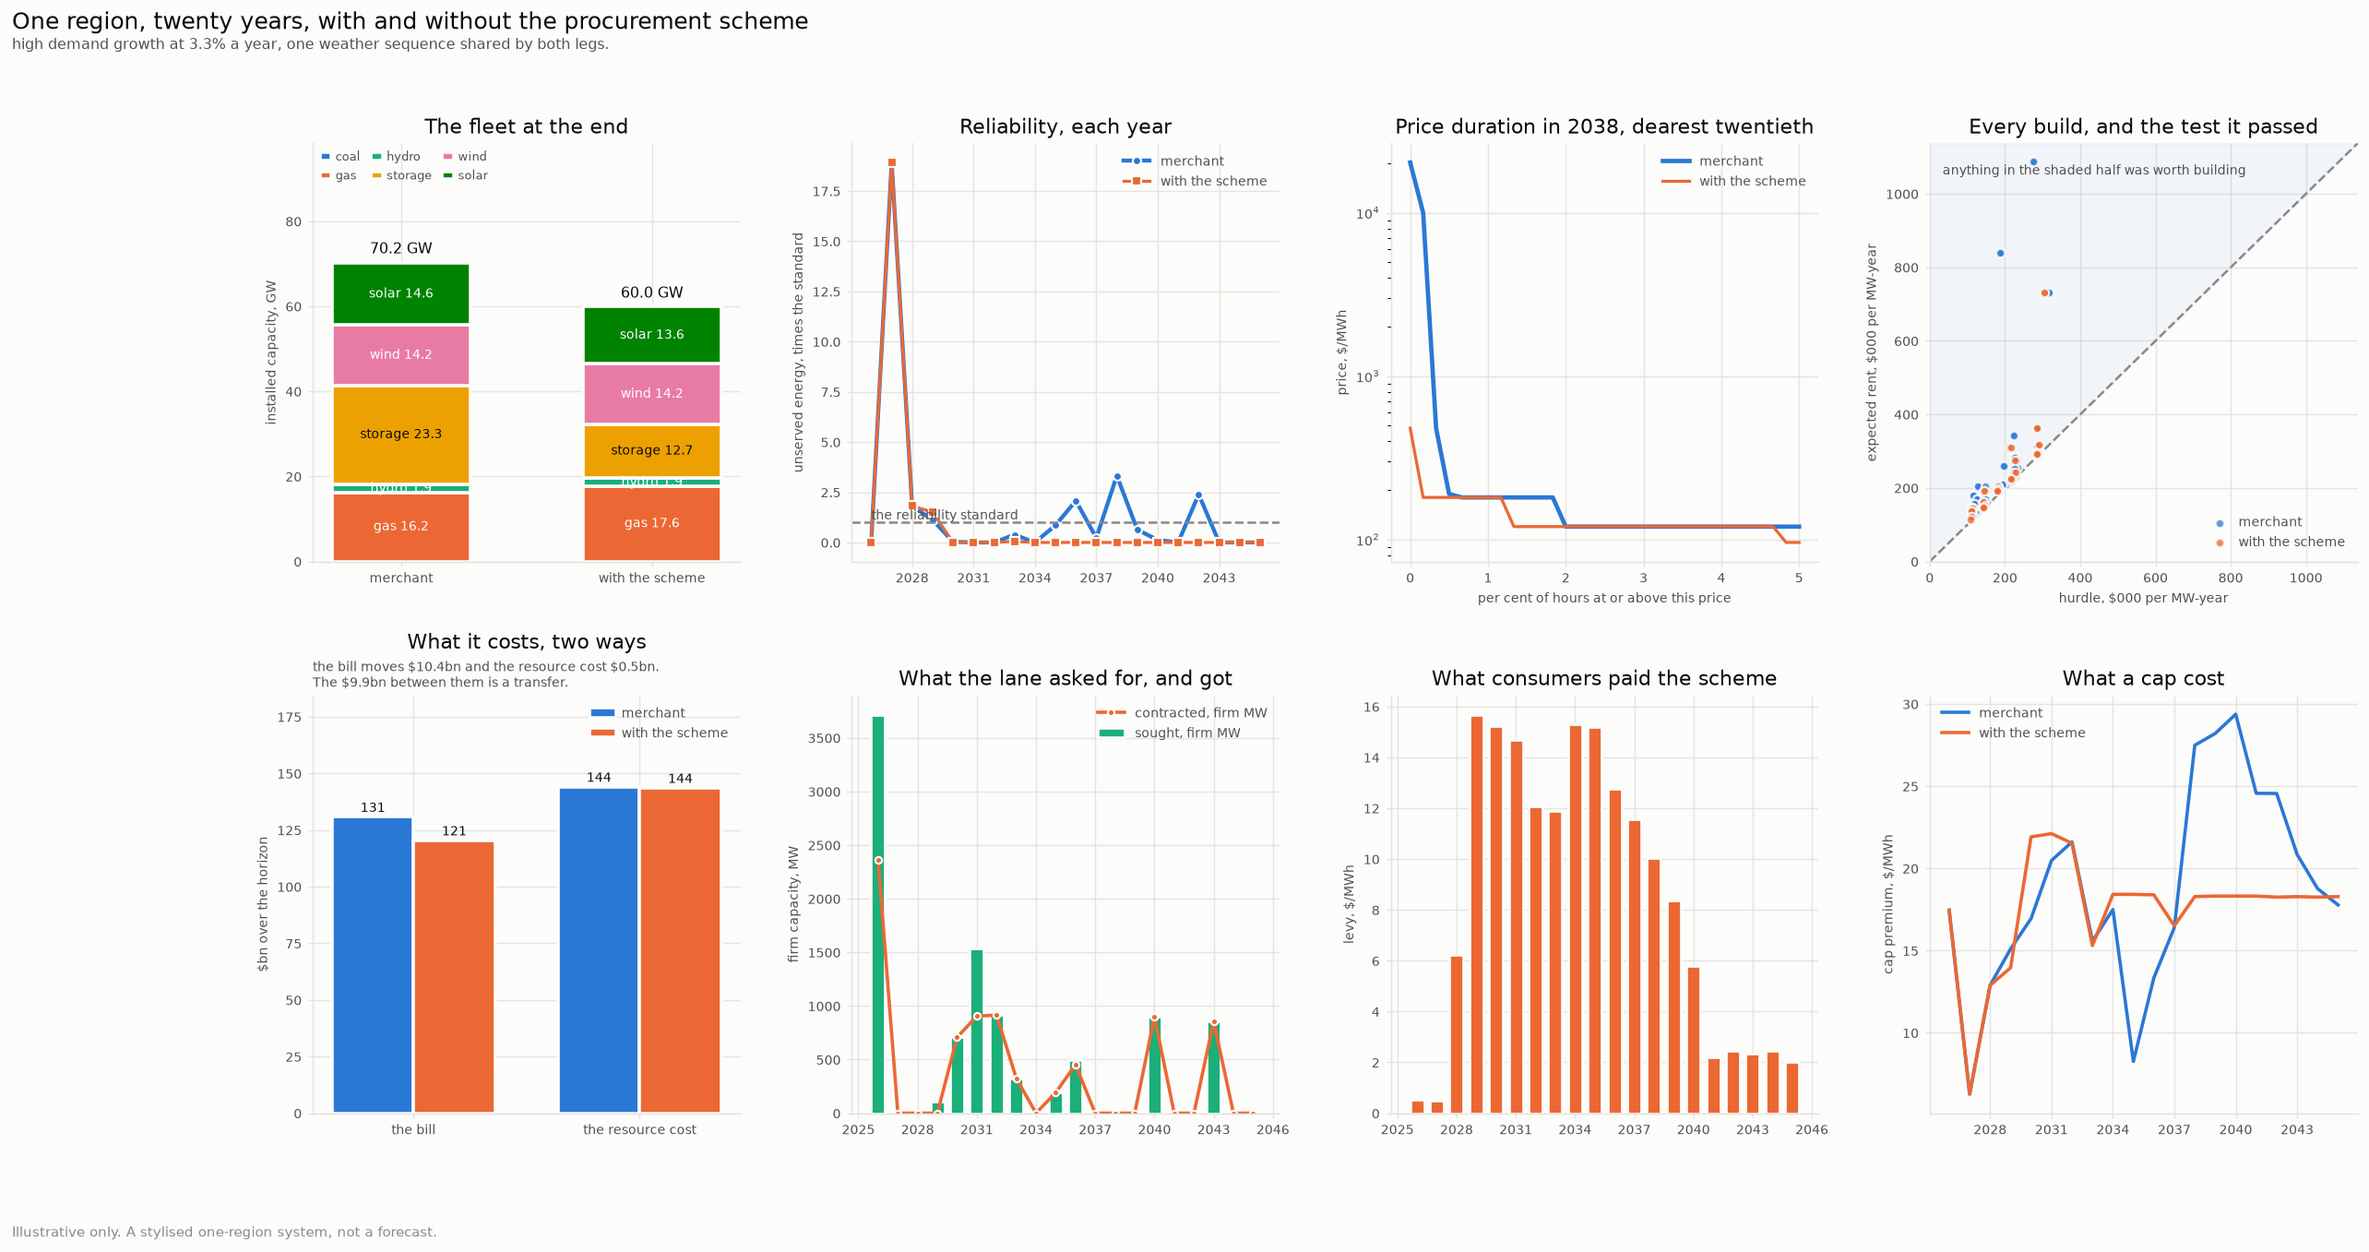
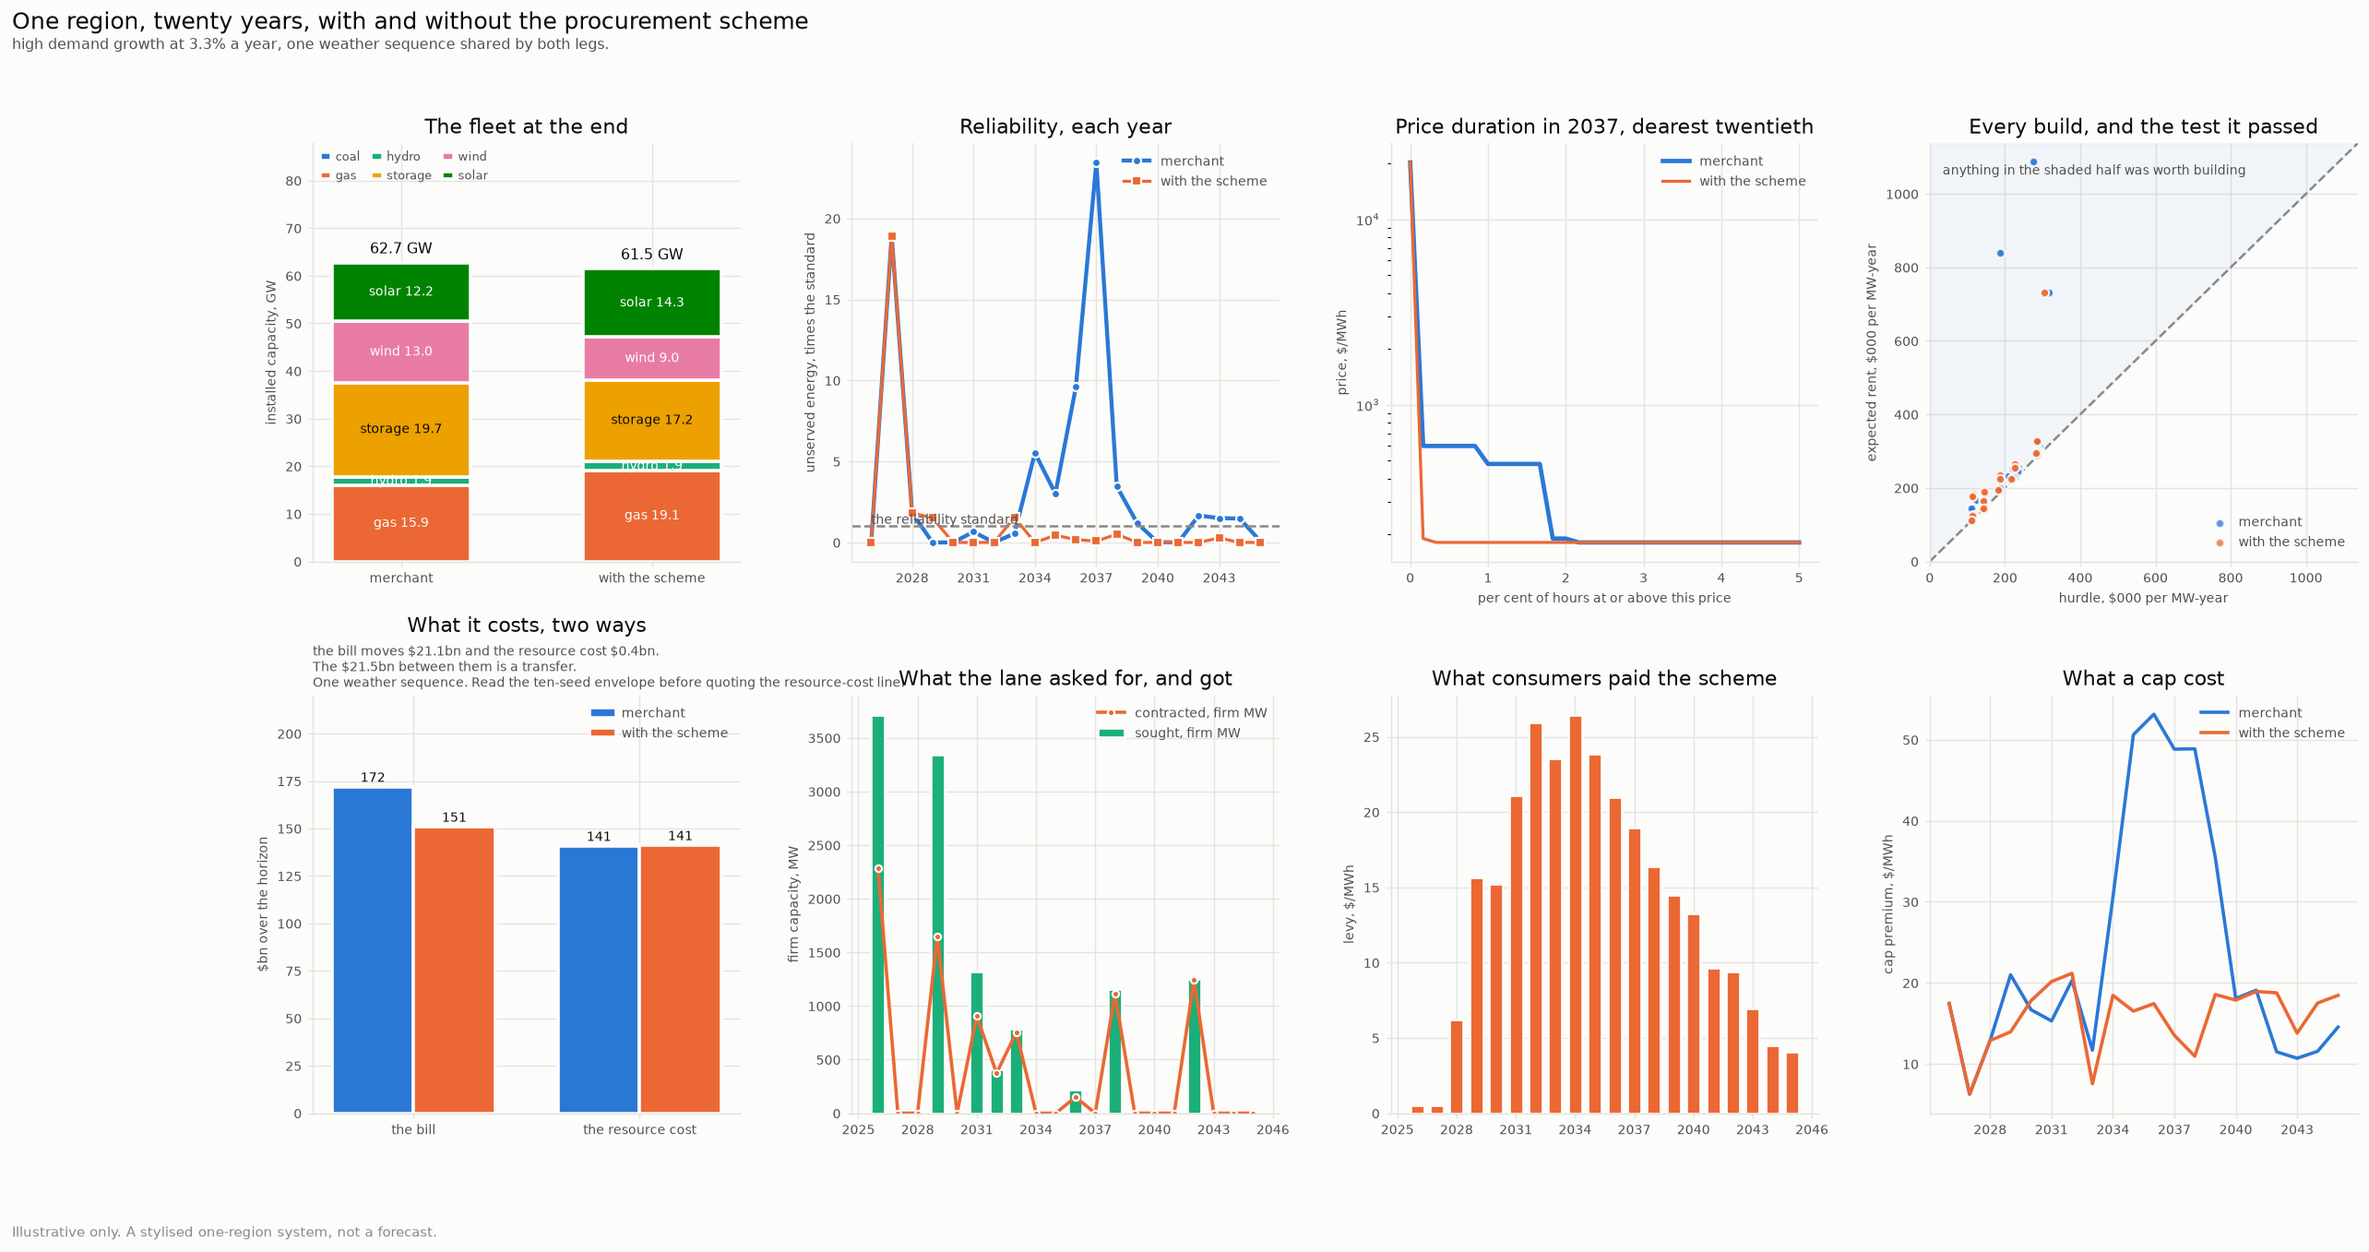
Regenerate the canonical outputs, and retire the claims they no longer support
Technology-open entry moved the results further than it moved the code, so every
published number was re-measured rather than re-stated.

The canonical seed, before and after: merchant unserved energy 55.4 -> 141.6 GWh,
the scheme leg 33.6 -> 39.5, the bill -$10.37bn -> -$21.06bn, and the resource cost
a $0.51bn SAVING -> a $0.40bn COST. The sign flipped. The merchant leg is much
worse off, and that reads as the mechanism working rather than breaking: the
projection now assumes cheap energy technologies enter, which flattens projected
scarcity rents, so merchant investors build less firm plant. That is the missing
money, and it is the thing the scheme is an answer to.

The ten-seed envelope moved with it, and it is less flattering:

  reliability improves in 6 of 10 and gets WORSE in 4  (was 8 of 10)
  outage avoided -$0.15bn to +$2.07bn, positive in 6   (was small and always positive)
  fuel, fixed and capital -$6.19bn to +$0.92bn
  total resource cost lower in 4 of 10                 (unchanged)

So "the outage line is small, positive and steady" is now false, and it was the
sentence the CLI, KNOWN_LIMITATIONS and the canonical README all leaned on. All
three now say that both lines change sign, and that the sort by growth path is the
part that travels: the three low-growth draws avoid no outage, cost $1.2bn to
$5.7bn more, and end slightly LESS reliable, while the two high-growth draws take
the largest outage savings in the set.
[…]

diff --git a/src/esem_sandbox/cli.py b/src/esem_sandbox/cli.py
@@ -312,12 +312,14 @@ def compare(args: argparse.Namespace) -> int:
     print(f"unserved energy is valued at the market price cap of ${voll:,.0f}/MWh. "
           "That is\na regulatory figure standing in for what an outage costs, not a "
           "measurement of one.")
-    print("\nONE SEED, AND ONLY HALF OF IT TRAVELS. Across ten weather sequences the "
-          "outage line\nis small, positive and steady; the fuel, fixed and capital "
-          "line swings by billions\neither way and decides the sign of the total. "
-          "Quote the outage avoided. Do not quote\nthe total. tools/ten_seeds.py "
-          "writes and decomposes the envelope, and a copy sits\nunder "
-          "outputs/canonical/.")
+    print("\nONE SEED, AND NOT MUCH OF IT TRAVELS. Across ten weather sequences the "
+          "scheme\nimproves reliability in six and worsens it in four, and lowers "
+          "the total resource\ncost in four. Both lines change sign across the "
+          "seeds, so neither this run's outage\nnor its total is a property of the "
+          "scheme. What does travel is the sort: the outage\navoided is largest on "
+          "the fast-growing draws and nil on the slow ones, where the\nscheme buys "
+          "capacity that has nothing to do. tools/ten_seeds.py writes and\n"
+          "decomposes the envelope, and a copy sits under outputs/canonical/.")
     print("\nA stylised fleet. Illustrative, and not a forecast of anything.")
     picture = plots.dashboard(legs, settings,
                               os.path.join(args.out, "dashboard.png"))

diff --git a/KNOWN_LIMITATIONS.md b/KNOWN_LIMITATIONS.md
@@ -176,15 +176,26 @@ capacity the scheme delivered.
 The auction runs before the investment step, which is the design's own tick order and
 matters physically: one supply chain builds both. So an award consumes annual build
 room that the merchant rule would otherwise have used, and the scheme leg builds
-noticeably less unsubsidised plant than the merchant leg does. Over twenty years on
-the packaged fleet the scheme leg awarded 11,100 MW and built 55,900 MW where the
-merchant leg built 77,900 MW.
+noticeably less unsubsidised plant than the merchant leg does. Counted off the
+fleet at the end of twenty years on the canonical seed, rather than inferred:
 
-The mix moves toward firm capacity, which is what the lane is buying, and the
-reliability outcome improves. But the size of the improvement is partly a
-reallocation of a fixed annual build rate rather than an increase in it, and the
-annual build rate is a pacing choice rather than an economic force. That makes the
-DIRECTION of the comparison meaningful and its MAGNITUDE softer than it looks.
+| | merchant | with the scheme |
+|---|---|---|
+| merchant build | 65,000 MW | 47,550 MW |
+| awarded | nil | 13,300 MW |
+| **new capacity in total** | **65,000 MW** | **60,850 MW** |
+| unserved energy | 141.6 GWh | 39.5 GWh |
+
+So 17,450 MW of merchant build made way for 13,300 MW of awards, and the scheme leg
+finishes with 4,150 MW LESS new plant than the merchant leg while shedding a quarter
+as much energy. The whole of the improvement on this seed is the MIX, not the amount:
+the lane buys firm capacity and the ceiling it consumes would have gone to something
+else.
+
+Read as a limitation, that means the annual build rate is a pacing choice rather than
+an economic force, and it is doing real work in the comparison. Read as a result, it
+is the more interesting half: on this seed a smaller fleet of the right shape beat a
+larger one of the wrong shape, and that is a statement about what capacity is FOR.
 
 ## A scheme cannot fix a year that arrives before its plant does
 
@@ -254,8 +265,8 @@ procured.
 ## The scheme's worth depends on which future the market turned out to be in
 
 Ten seeds, twenty years each, both legs on each seed's own shared weather. The
-scheme improves reliability in eight of the ten and lowers the total resource cost
-in four.
+scheme improves reliability in six of the ten and makes it worse in four, and it
+lowers the total resource cost in four.
 
 Splitting each seed's resource-cost difference into the outage the scheme avoided
 and everything else - unserved energy priced at the value of lost load is one of the
@@ -263,54 +274,69 @@ four terms, so subtracting it leaves fuel, fixed costs and capital together:
 
 | | across ten seeds |
 |---|---|
-| outage avoided | -$0.02bn to +$0.73bn, positive in eight |
-| fuel, fixed and capital | -$4.35bn to +$2.19bn, positive in three |
+| outage avoided | -$0.15bn to +$2.07bn, positive in six |
+| fuel, fixed and capital | -$6.19bn to +$0.92bn, positive in three |
 
-The outage line is small, positive and steady. The other line is four times larger,
-swings both ways, and decides the sign of the total. **Quote the outage avoided. Do
-not quote the total.**
+Both lines change sign across the seeds, so **neither figure from a single run is a
+property of the scheme**, and the total least of all: the second line is the larger
+of the two on eight of the ten seeds and it decides the sign.
 
-**And the swing is not random.** Sorted by the demand growth path each run drew:
+**But the swing is not random, and the sort is the finding.** Taken by the demand
+growth path each run drew:
 
-- **low growth** (three seeds): resource cost worse by $2.0bn to $4.4bn every time,
-  and the outage avoided is nil, between minus $0.02bn and plus $0.01bn;
-- **high growth** (two seeds): resource cost better both times, and the two largest
-  outage savings in the set;
-- **central growth** (five seeds): two better, three worse.
+| path | seeds | outage avoided | resource cost | reliability |
+|---|---|---|---|---|
+| low | 3 | -$0.07bn to -$0.02bn | worse every time, by $1.2bn to $5.7bn | worse in all three |
+| central | 5 | -$0.15bn to +$0.79bn | three worse, two better | three better, two worse |
+| high | 2 | +$1.64bn and +$2.07bn | one worse by $0.40bn, one better by $0.48bn | far better both times |
 
-So on a slow-growing system the scheme procures capacity that has nothing to do, and
-on a fast-growing one it earns its keep. That is a result about the instrument rather
-than about the weather, and it is the one worth taking away.
+On a slow-growing system the scheme procures capacity that has nothing to do, pays
+for it, and does not improve reliability - on these three draws it slightly worsens
+it. On a fast-growing one it avoids the largest outages in the set. Sorted this way
+the scheme awards 13,000 to 13,550 MW on the high draws and 7,700 to 8,100 MW on the
+low ones, so it is responding to the future it is in; it is just responding to a
+future it only half knows.
 
-**The obvious mechanism was tested and is wrong.** The tempting explanation is that
-the lane is sized from a forward view that keeps its growth priors whatever the
-realised path has been doing, so a scheme that cannot learn which future it is in
-keeps buying for the average of them. That can be tested without a design change:
-collapse the priors onto the path each run actually drew and see what happens. On a
+**The reliability going backwards on the slow draws is measured, and its cause is
+not.** The candidate is the shared annual build ceiling, which the state scheme
+lane is already known to bind against - awards displacing merchant plant rather
+than adding to it, which the next section is about. That has NOT been tested here,
+and it should not be repeated as though it had been.
+
+**The obvious mechanism has been tested twice and has never held up.** The tempting
+explanation is that the lane is sized from a forward view that keeps its growth
+priors whatever the realised path has been doing, so a scheme that cannot learn which
+future it is in keeps buying for the average of them. That can be tested without a
+design change: collapse the priors onto the path each run actually drew, which forces
+the same realised weather and the same realised path, and see what happens. On a
 reduced lattice, so these figures are not comparable with the ten-seed table above:
 
 | seed | path | | awarded | resource cost | outage avoided |
 |---|---|---|---|---|---|
-| 20260101 | low | priors as they are | 4,950 MW | -$2.83bn | -$0.02bn |
-| | | knowing the path | 4,400 MW | -$0.08bn | +$0.00bn |
-| 111 | low | priors as they are | 5,950 MW | -$2.64bn | +$0.01bn |
-| | | knowing the path | 3,250 MW | +$0.47bn | +$0.09bn |
-| 20260904 | high | priors as they are | 9,350 MW | -$3.26bn | +$0.67bn |
-| | | knowing the path | 11,200 MW | -$7.50bn | +$0.14bn |
+| 20260101 | low | priors as they are | 9,050 MW | +$0.50bn | -$0.02bn |
+| | | knowing the path | 6,300 MW | -$2.86bn | +$1.28bn |
+| 111 | low | priors as they are | 6,700 MW | -$5.19bn | +$0.21bn |
+| | | knowing the path | 5,000 MW | -$1.50bn | -$0.16bn |
+| 20260904 | high | priors as they are | 14,950 MW | -$2.15bn | +$4.09bn |
+| | | knowing the path | 15,600 MW | -$2.78bn | +$0.90bn |
+| 31415926 | high | priors as they are | 10,150 MW | +$0.98bn | +$0.86bn |
+| | | knowing the path | 9,000 MW | -$0.11bn | +$0.50bn |
 
-On the low path the explanation holds: knowing where demand is going nearly halves
-what the scheme buys and turns a two-and-a-half billion dollar penalty into a gain.
+**What survives is the negative result.** Perfect foresight about the growth path
+does not rescue the scheme on any of these four draws. It cuts what the scheme buys
+on three of the four, and still leaves the resource cost worse on three and the
+outage avoided smaller on three - and never both better at once. Whatever makes the
+scheme expensive on a slow path, not knowing which path it is on is not it.
 
-**On the high path it reverses.** Knowing the path makes the scheme procure MORE,
-cost MORE, and avoid LESS outage, because the market is better informed too and
-builds more of the answer itself, leaving the scheme less to fix.
-
-So the mechanism is not that the scheme cannot learn. It is that the scheme's penalty
-tracks how much it procures that the market would have covered anyway, and better
-information does not fix that: on a fast path it sharpens the market's own response
-and makes the redundancy worse. A procurement scheme is expensive exactly where it is
-least needed, and knowing more about the future moves where that is rather than
-removing it.
+**What does NOT survive is any positive story about why.** An earlier version of this
+file drew one from the same probe run against the previous projection, where entry
+was assumed to be a peaker: that the scheme's penalty tracks how much it procures
+that the market would have covered anyway, so better information moves the
+redundancy rather than removing it. That table no longer reproduces. Under a
+projection open to technology the four draws point four ways, and neither the
+direction on cost nor the direction on outage is shared by three of them for the same
+reason. Four seeds on a reduced lattice cannot carry a mechanism, and this one is not
+being asserted. It is an open question, and it is a good one for a reader to take.
 
 ## What the simplification costs elsewhere
 

diff --git a/outputs/canonical/README.md b/outputs/canonical/README.md
@@ -6,34 +6,44 @@ conference wifi connection. Regenerate with:
 ```bash
 esem-sandbox run --out outputs/canonical
 esem-sandbox compare --ticks 20 --seed 20260904 --out outputs/canonical
+python tools/ten_seeds.py outputs/canonical/ten_seeds.csv 20
 ```
 
 `comparison.csv` and `comparison.txt` are one paired run: twenty years, one seed,
 both legs on the same weather sequence. Read the two cost lines together. The
-scheme moves the bill by $10.37bn and the resource cost by $0.51bn, and the
-$9.86bn between them is a transfer from generators to consumers rather than a
-saving by anybody. The bill alone would overstate the scheme by twenty times.
+scheme moves the bill DOWN by $21.06bn and the resource cost UP by $0.40bn, and
+the $21.46bn between them is a transfer from generators to consumers rather than a
+saving by anybody. On this seed the bill would not merely overstate the scheme, it
+would report a cost as a benefit.
 
-**And read that $0.51bn as this draw's, not the model's.** `ten_seeds.csv` beside
+Underneath the total, the scheme avoids $2.07bn of outage and spends $2.47bn more
+on fuel, fixed costs and capital to do it. Whether that trade is worth taking is a
+question about the value of lost load, which is a regulatory figure here and not a
+measurement.
+
+**And read all of that as this draw's, not the model's.** `ten_seeds.csv` beside
 this file is ten seeds of the same comparison. The scheme improves reliability in
-eight of them and lowers the total resource cost in four, and the outage it avoids
-is small, positive and steady while fuel, fixed costs and capital swing four times
-as far and decide the sign.
+six of them and makes it worse in four; it lowers the total resource cost in four.
+Both the outage line and the cost line change sign across the seeds, so neither
+number above is a property of the scheme.
 
-Sorted by the demand growth path each run drew, the swing is not random: on the
-three low-growth draws the scheme is worse by $2.0bn to $4.4bn and avoids no outage
-at all, and on both high-growth draws it is better and avoids the most. A scheme's
-worth depends on which future the market turned out to be in, and this seed is a
-high-growth one.
+What does travel is the sort. Taken by the demand growth path each run drew, on the
+three low-growth draws the scheme avoids no outage at all, costs $1.2bn to $5.7bn
+more, and leaves reliability slightly worse; on the two high-growth draws it avoids
+the largest outages in the set, $1.64bn and $2.07bn. It awards around 13,000 MW on
+the fast draws and around 8,000 MW on the slow ones, so it is responding to the
+future it is in - it just responds to a future it only half knows. This seed is a
+high-growth one, which is why it is the flattering end of the range.
 
 `dashboard.png` is the same paired run as eight panels: the fleet at the end, the
 reliability outcome against the standard, price duration, every build against the
 test it passed, the two cost views with the transfer between them named, what the
 lane asked for and got, what consumers paid, and what a cap cost.
 
-The most useful row is 2027, where both legs shed the same 28.3 GWh. The plant
-awarded in 2026 has not been built yet. A procurement scheme is an instrument
-about the future, and it cannot fix a year that arrives before its plant does.
+The most useful row is 2027, where both legs shed the same 28.3 GWh, 18.9 times the
+standard. The plant awarded in 2026 has not been built yet. A procurement scheme is
+an instrument about the future, and it cannot fix a year that arrives before its
+plant does. That row is identical on both legs no matter which seed you run.
 
 Everything here is illustrative. The system is stylised and none of it is a
 forecast.
